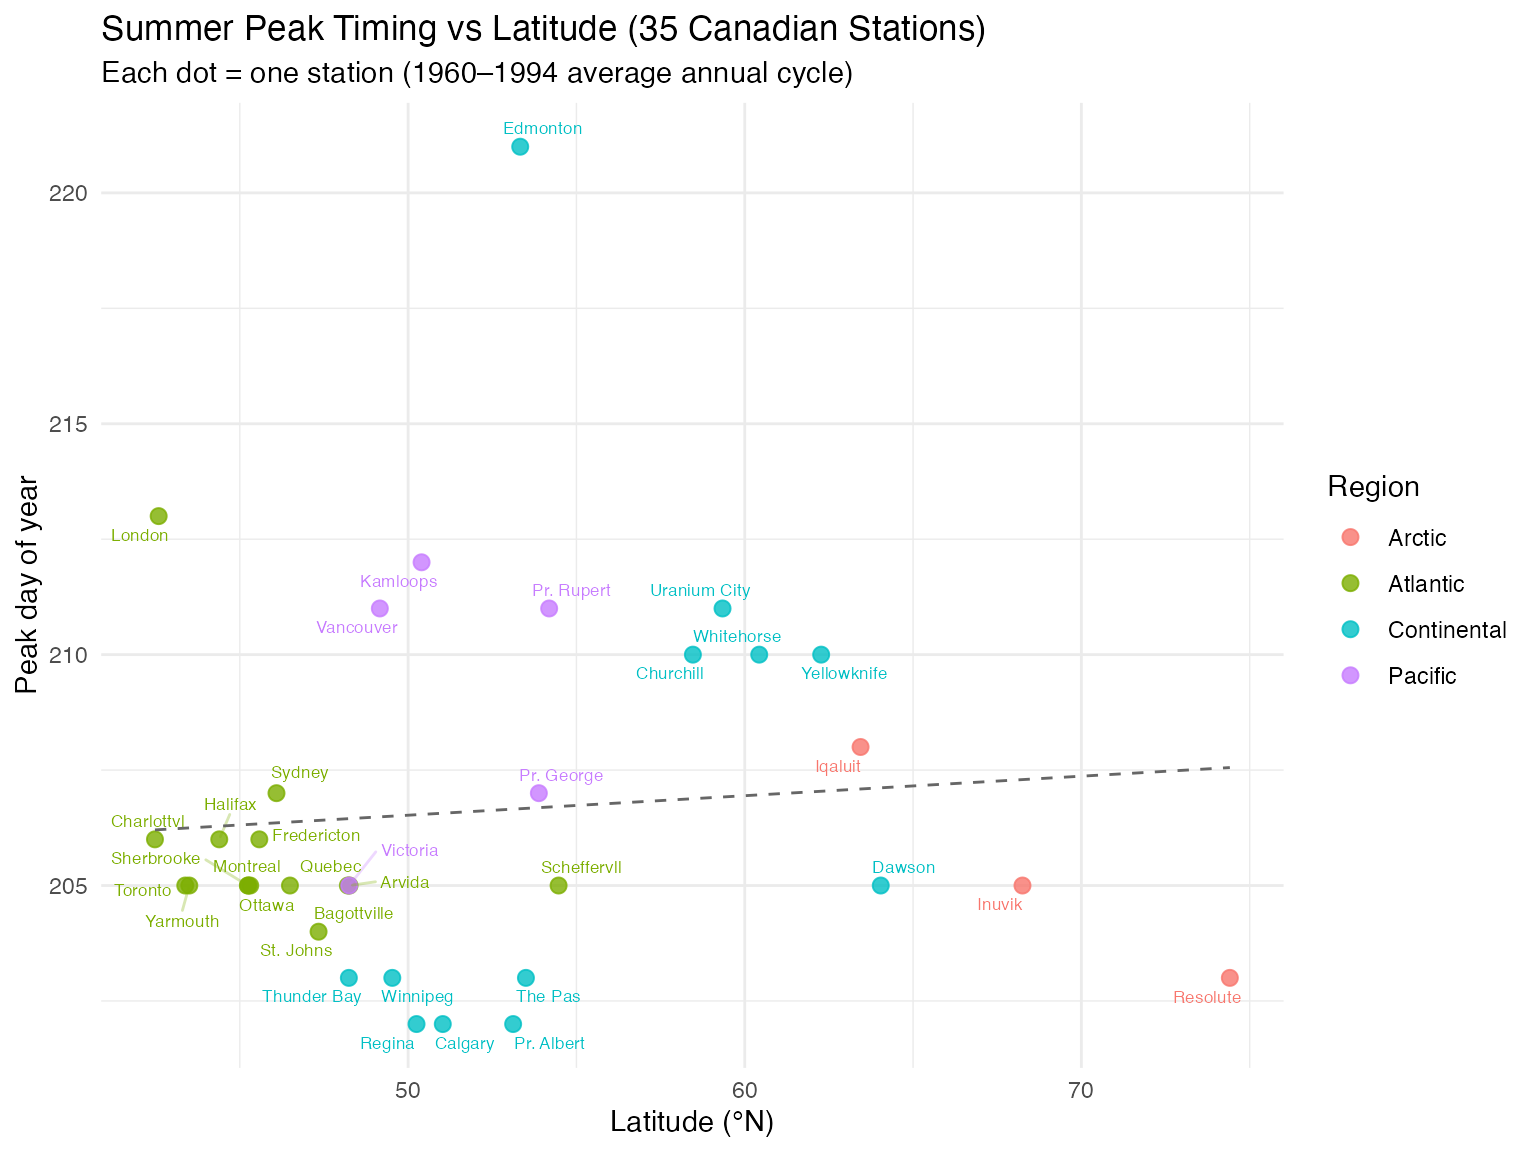
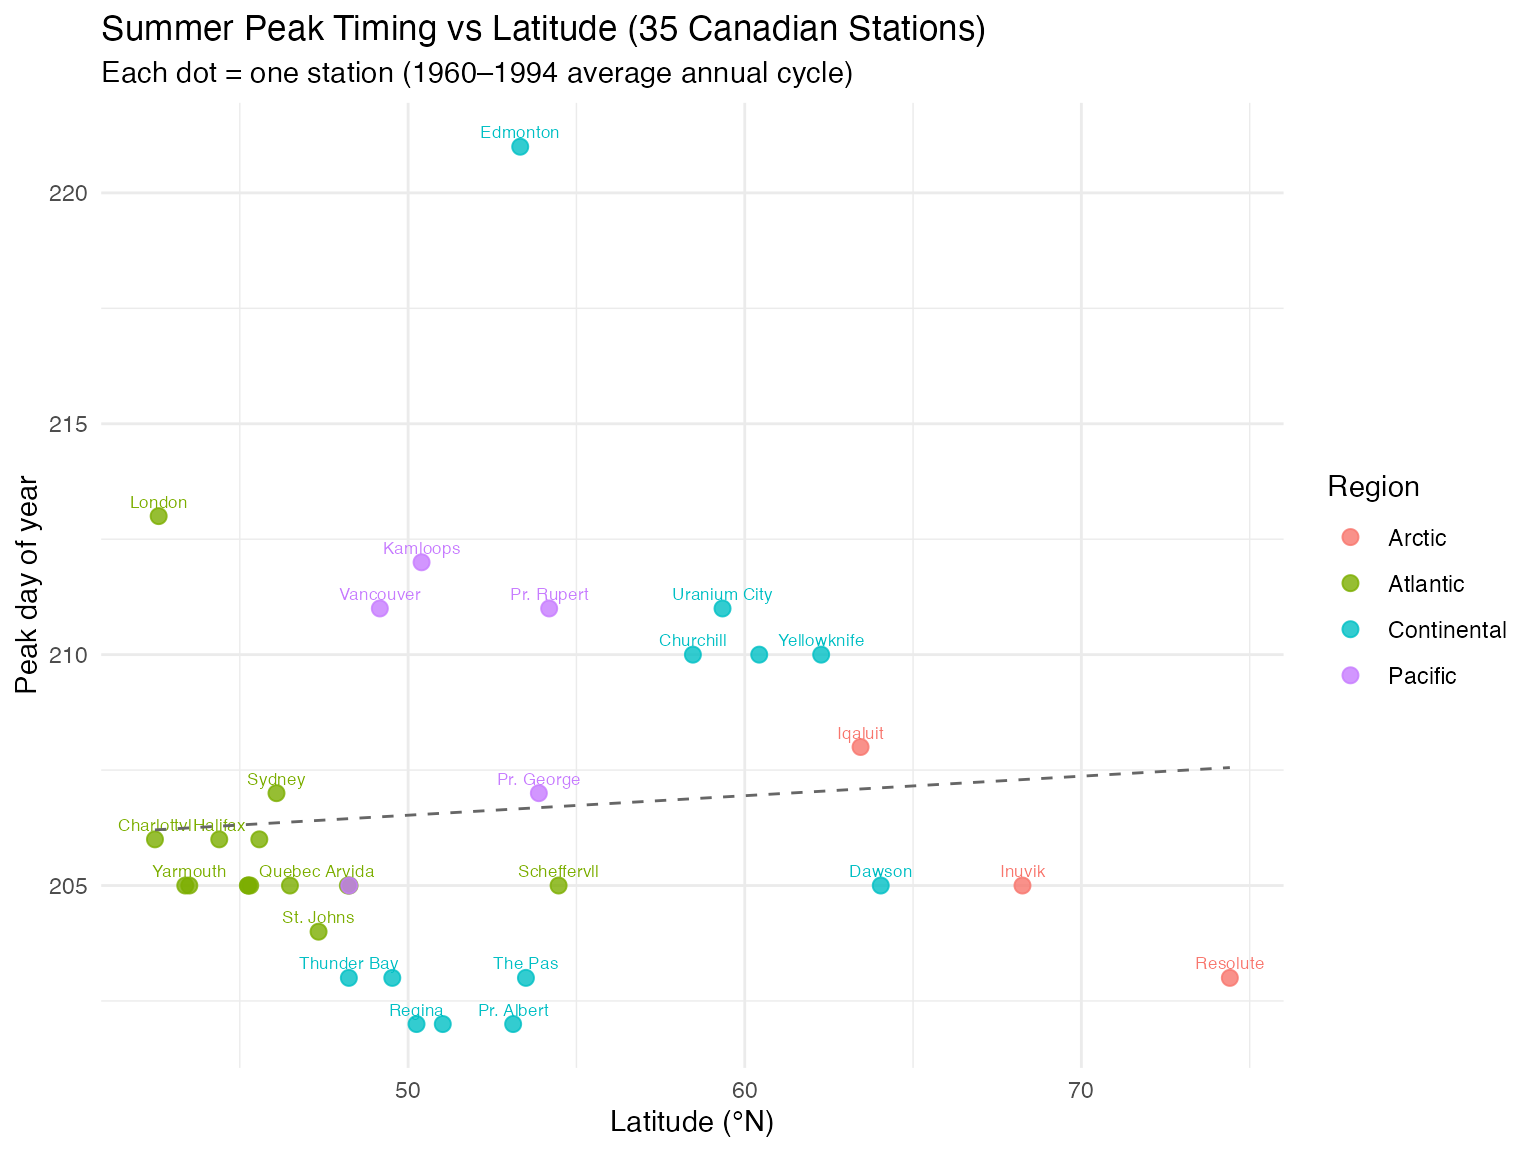
Deploying to gh-pages from @ sipemu/fdars-r@e14efb84d4624c709f7bb19508af95ee64a98d2b 🚀

diff --git a/articles/example-canadian-seasonal.html b/articles/example-canadian-seasonal.html
@@ -620,8 +620,8 @@ and growing amplitude.</p>
 <div class="sourceCode" id="cb21"><pre class="downlit sourceCode r">
 <code class="sourceCode R"><span><span class="fu">ggplot</span><span class="op">(</span><span class="va">peak_info</span>, <span class="fu">aes</span><span class="op">(</span>x <span class="op">=</span> <span class="va">Latitude</span>, y <span class="op">=</span> <span class="va">PeakDay</span>, color <span class="op">=</span> <span class="va">Region</span><span class="op">)</span><span class="op">)</span> <span class="op">+</span></span>
 <span>  <span class="fu">geom_point</span><span class="op">(</span>size <span class="op">=</span> <span class="fl">2.5</span>, alpha <span class="op">=</span> <span class="fl">0.8</span><span class="op">)</span> <span class="op">+</span></span>
-<span>  <span class="fu">ggrepel</span><span class="fu">::</span><span class="fu"><a href="https://ggrepel.slowkow.com/reference/geom_text_repel.html" class="external-link">geom_text_repel</a></span><span class="op">(</span><span class="fu">aes</span><span class="op">(</span>label <span class="op">=</span> <span class="va">Station</span><span class="op">)</span>, size <span class="op">=</span> <span class="fl">2.3</span>, max.overlaps <span class="op">=</span> <span class="fl">20</span>,</span>
-<span>                            segment.alpha <span class="op">=</span> <span class="fl">0.3</span>, show.legend <span class="op">=</span> <span class="cn">FALSE</span><span class="op">)</span> <span class="op">+</span></span>
+<span>  <span class="fu">geom_text</span><span class="op">(</span><span class="fu">aes</span><span class="op">(</span>label <span class="op">=</span> <span class="va">Station</span><span class="op">)</span>, size <span class="op">=</span> <span class="fl">2.3</span>, vjust <span class="op">=</span> <span class="op">-</span><span class="fl">0.7</span>,</span>
+<span>            show.legend <span class="op">=</span> <span class="cn">FALSE</span>, check_overlap <span class="op">=</span> <span class="cn">TRUE</span><span class="op">)</span> <span class="op">+</span></span>
 <span>  <span class="fu">geom_smooth</span><span class="op">(</span>method <span class="op">=</span> <span class="st">"lm"</span>, se <span class="op">=</span> <span class="cn">FALSE</span>, color <span class="op">=</span> <span class="st">"grey40"</span>,</span>
 <span>              linetype <span class="op">=</span> <span class="st">"dashed"</span>, linewidth <span class="op">=</span> <span class="fl">0.5</span><span class="op">)</span> <span class="op">+</span></span>
 <span>  <span class="fu">labs</span><span class="op">(</span>title <span class="op">=</span> <span class="st">"Summer Peak Timing vs Latitude (35 Canadian Stations)"</span>,</span>
@@ -632,8 +632,8 @@ and growing amplitude.</p>
 <div class="sourceCode" id="cb22"><pre class="downlit sourceCode r">
 <code class="sourceCode R"><span><span class="fu">ggplot</span><span class="op">(</span><span class="va">peak_info</span>, <span class="fu">aes</span><span class="op">(</span>x <span class="op">=</span> <span class="va">Latitude</span>, y <span class="op">=</span> <span class="va">PeakTemp</span>, color <span class="op">=</span> <span class="va">Region</span><span class="op">)</span><span class="op">)</span> <span class="op">+</span></span>
 <span>  <span class="fu">geom_point</span><span class="op">(</span>size <span class="op">=</span> <span class="fl">2.5</span>, alpha <span class="op">=</span> <span class="fl">0.8</span><span class="op">)</span> <span class="op">+</span></span>
-<span>  <span class="fu">ggrepel</span><span class="fu">::</span><span class="fu"><a href="https://ggrepel.slowkow.com/reference/geom_text_repel.html" class="external-link">geom_text_repel</a></span><span class="op">(</span><span class="fu">aes</span><span class="op">(</span>label <span class="op">=</span> <span class="va">Station</span><span class="op">)</span>, size <span class="op">=</span> <span class="fl">2.3</span>, max.overlaps <span class="op">=</span> <span class="fl">20</span>,</span>
-<span>                            segment.alpha <span class="op">=</span> <span class="fl">0.3</span>, show.legend <span class="op">=</span> <span class="cn">FALSE</span><span class="op">)</span> <span class="op">+</span></span>
+<span>  <span class="fu">geom_text</span><span class="op">(</span><span class="fu">aes</span><span class="op">(</span>label <span class="op">=</span> <span class="va">Station</span><span class="op">)</span>, size <span class="op">=</span> <span class="fl">2.3</span>, vjust <span class="op">=</span> <span class="op">-</span><span class="fl">0.7</span>,</span>
+<span>            show.legend <span class="op">=</span> <span class="cn">FALSE</span>, check_overlap <span class="op">=</span> <span class="cn">TRUE</span><span class="op">)</span> <span class="op">+</span></span>
 <span>  <span class="fu">geom_smooth</span><span class="op">(</span>method <span class="op">=</span> <span class="st">"lm"</span>, se <span class="op">=</span> <span class="cn">TRUE</span>, alpha <span class="op">=</span> <span class="fl">0.15</span>, linewidth <span class="op">=</span> <span class="fl">0.5</span>,</span>
 <span>              color <span class="op">=</span> <span class="st">"grey40"</span>, linetype <span class="op">=</span> <span class="st">"dashed"</span><span class="op">)</span> <span class="op">+</span></span>
 <span>  <span class="fu">labs</span><span class="op">(</span>title <span class="op">=</span> <span class="st">"Summer Peak Temperature vs Latitude"</span>,</span>
